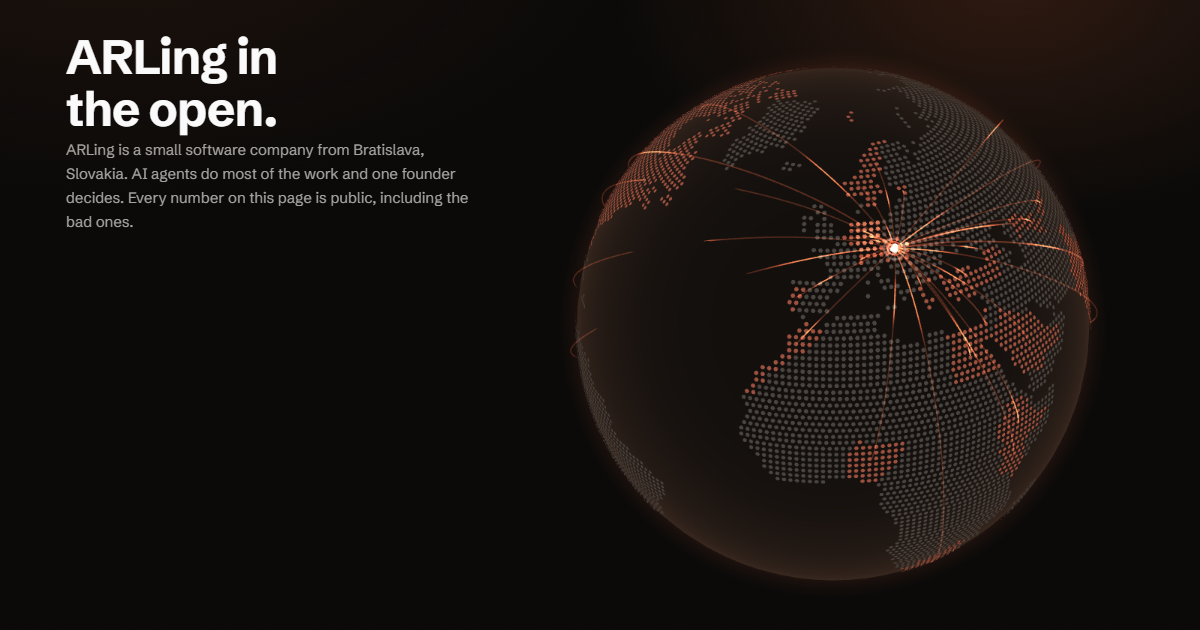
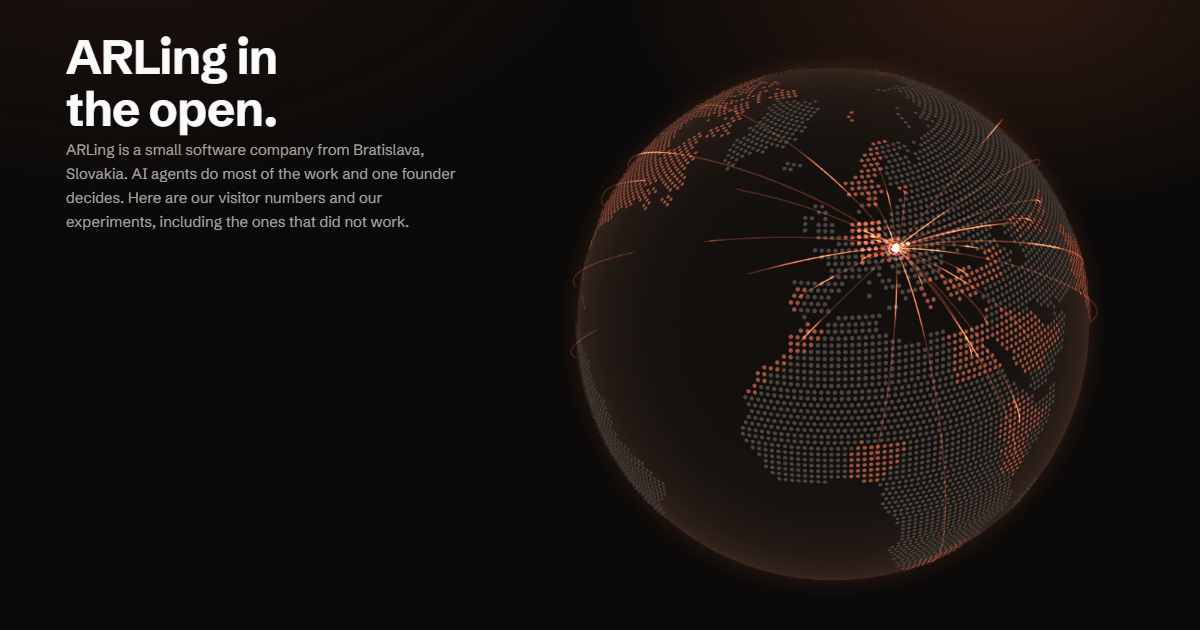
fable: ARLing Live bez penazi firmy (A-182): bez sekcie Money, bez financie.json, pokusy bez sum, og bez cisel; odkaz na uvode len o navstevach

Changed region(s): [[0.6167, 0.2413, 0.925, 0.9048], [0.0617, 0.3016, 0.4008, 0.3619], [0.4933, 0.2111, 0.5858, 0.3317]]

diff --git a/live/index.html b/live/index.html
@@ -5,19 +5,19 @@
 <script type="text/plain" data-odlozene src="/style/vzhlad.js?v=da076a5a"></script>
 <meta charset="utf-8">
 <meta name="viewport" content="width=device-width, initial-scale=1">
-<meta http-equiv="Content-Security-Policy" content="default-src 'self'; script-src 'self' https://api.arling.workers.dev 'sha256-7FSdfmrl+5QSgl6IKPQIurtZ+JQz6W0uhhvFm3YWalc=' 'sha256-+cOkXhI6kmAK6mtiC2OffuDUdcYFfv6ucRETbZ9VK9Y='; connect-src 'self' https://api.arling.workers.dev; img-src 'self' data:; style-src 'self' 'unsafe-inline'; base-uri 'self'; form-action 'none'; object-src 'none'">
+<meta http-equiv="Content-Security-Policy" content="default-src 'self'; script-src 'self' https://api.arling.workers.dev 'sha256-7FSdfmrl+5QSgl6IKPQIurtZ+JQz6W0uhhvFm3YWalc=' 'sha256-9DeU0KVSD0d1mmyzUn85d1rb6ze+3eDNk3VcQLYG9bY='; connect-src 'self' https://api.arling.workers.dev; img-src 'self' data:; style-src 'self' 'unsafe-inline'; base-uri 'self'; form-action 'none'; object-src 'none'">
 <meta name="color-scheme" content="dark">
 <meta name="theme-color" content="#0a0908">
 <link rel="preconnect" href="https://api.arling.workers.dev" crossorigin>
 <link rel="icon" href="../favicon.svg" type="image/svg+xml">
 <link rel="icon" href="../favicon.ico" sizes="48x48">
 <link rel="apple-touch-icon" href="../icon-180.png">
-<title>ARLing Live: visitors, money and experiments in the open</title>
-<meta name="description" content="Where the visitors of ARLing come from, what the company earned and spent, and what it is trying now. Small software company from Bratislava, every number public.">
+<title>ARLing Live: visitors and experiments in the open</title>
+<meta name="description" content="Where the visitors of ARLing come from, which pages they open and what the company is trying now, including what did not work. Small software company from Bratislava.">
 <link rel="canonical" href="https://arling.sk/live/">
 <meta property="og:type" content="website">
-<meta property="og:title" content="ARLing Live: visitors, money and experiments in the open">
-<meta property="og:description" content="Where the visitors of ARLing come from, what the company earned and spent, and what it is trying now.">
+<meta property="og:title" content="ARLing Live: visitors and experiments in the open">
+<meta property="og:description" content="Where the visitors of ARLing come from, which pages they open and what the company is trying now.">
 <meta property="og:url" content="https://arling.sk/live/">
 <meta property="og:image" content="https://arling.sk/live/og.png">
 <meta property="og:image:width" content="1200">
@@ -190,9 +190,8 @@ html:not(.css) main>:nth-child(n+3),html:not(.css) body>footer{visibility:hidden
 .live-veta{font:600 clamp(22px,2.2vw,32px)/1.25 var(--display);color:var(--ink);letter-spacing:-.01em;margin:0 0 8px;max-width:24ch}
 .live-veta b{color:var(--ink);font-weight:600}
 .live-veta2{font:400 clamp(16px,1.2vw,18px)/1.45 var(--ui);color:var(--body);margin:0 0 18px;max-width:44ch}
-.live-pre-vas{color:var(--ink);font-size:15px;margin-top:18px}
 .live-pokusy .lp-o{margin:2px 0 8px;font:500 15px/1.4 var(--ui)}
-.live-pokusy .lp-o a,.live-riadky .lr-p a{color:var(--ink);text-underline-offset:3px}
+.live-pokusy .lp-o a{color:var(--ink);text-underline-offset:3px}
 .live-zoznam .lz-m a::after{content:"";position:absolute;inset:0}
 .live-zoznam .lz-m a:focus-visible{outline:2px solid var(--accent);outline-offset:2px}
 .live-cisla{display:grid;grid-template-columns:repeat(2,minmax(0,1fr));margin:0;border-top:1px solid var(--line)}
@@ -231,19 +230,6 @@ body.noc .live-sekcia .live-tri h3{font:600 15px/1.3 var(--ui);color:var(--muted
 .live-tabulka thead th{color:var(--muted);font-weight:500;font-size:13px}
 .live-tabulka{display:table}.live-tabulka thead{display:table-header-group}.live-tabulka tbody{display:table-row-group}.live-tabulka tr{display:table-row}.live-tabulka th,.live-tabulka td{display:table-cell;width:auto}.live-tabulka td,.live-tabulka thead th:not(:first-child){padding-left:12px}
 .live-uvod-sekcie{font:400 clamp(16px,1.2vw,19px)/1.5 var(--ui);color:var(--body);max-width:62ch;margin:0 0 clamp(20px,2.4vw,36px)}
-.live-peniaze{display:grid;grid-template-columns:minmax(0,1fr);border-top:1px solid var(--line)}
-.live-velke{padding:18px 0;border-bottom:1px solid var(--line)}
-.live-velke p{margin:0;font:500 14px/1.3 var(--ui);color:var(--muted)}
-.live-velke .lv-v{font:600 clamp(36px,4.2vw,64px)/1 var(--display);color:var(--ink);letter-spacing:-.02em;margin:8px 0 8px;white-space:nowrap}
-.live-velke.zle .lv-v{color:var(--accent)}
-.live-velke .lv-p{font-size:14px;color:var(--body);font-weight:400}
-body.noc .live-sekcia h3{font:600 18px/1.3 var(--display);color:var(--ink);letter-spacing:-.01em;margin:clamp(40px,4vw,60px) 0 12px}
-.live-riadky{list-style:none;margin:0;padding:0;border-top:1px solid var(--line)}
-.live-riadky li{display:grid;grid-template-columns:minmax(0,1fr) auto;column-gap:16px;padding:12px 0;border-bottom:1px solid var(--line)}
-.live-riadky .lr-m{font:500 16px/1.4 var(--ui);color:var(--ink);min-width:0}
-.live-riadky .lr-c{font:600 16px/1.4 var(--ui);color:var(--ink);text-align:right;white-space:nowrap}
-.live-riadky .lr-c small{display:block;font:400 12px/1.3 var(--ui);color:var(--muted)}
-.live-riadky .lr-p{grid-column:1/-1;font:400 14px/1.5 var(--ui);color:var(--muted);margin-top:4px;max-width:80ch}
 .live-pozn{font:400 14px/1.55 var(--ui);color:var(--muted);max-width:72ch;margin:12px 0 0}
 .live-pokusy{list-style:none;margin:0;padding:0;border-top:1px solid var(--line)}
 .live-pokusy li{padding:18px 0;border-bottom:1px solid var(--line)}
@@ -258,7 +244,6 @@ body.noc .live-sekcia h3{font:600 18px/1.3 var(--display);color:var(--ink);lette
 @media (min-width:760px){
 .live-cisla{grid-template-columns:repeat(4,minmax(0,1fr))}
 .live-tri{grid-template-columns:repeat(3,minmax(0,1fr))}
-.live-peniaze{grid-template-columns:repeat(3,minmax(0,1fr));column-gap:clamp(20px,3vw,48px)}
 }
 @media (min-width:1000px){
 .live-mriezka{grid-template-columns:minmax(0,5fr) minmax(0,7fr);grid-template-areas:"text globus" "veta globus" "prepinac globus" "prehlad globus";grid-template-rows:auto auto auto 1fr;column-gap:clamp(24px,3vw,56px)}
@@ -268,7 +253,7 @@ body.noc .live-sekcia h3{font:600 18px/1.3 var(--display);color:var(--ink);lette
 }
 @media (prefers-reduced-motion:reduce){.live-platno canvas{transition:none}}
 </style>
-<script type="application/ld+json">{"@context":"https://schema.org","@type":"WebPage","@id":"https://arling.sk/live/#page","name":"ARLing Live: visitors, money and experiments in the open","url":"https://arling.sk/live/","inLanguage":"en","description":"Where the visitors of ARLing come from, what the company earned and spent, and what it is trying now.","publisher":{"@id":"https://arling.sk/#org"}}</script>
+<script type="application/ld+json">{"@context":"https://schema.org","@type":"WebPage","@id":"https://arling.sk/live/#page","name":"ARLing Live: visitors and experiments in the open","url":"https://arling.sk/live/","inLanguage":"en","description":"Where the visitors of ARLing come from, which pages they open and what the company is trying now.","publisher":{"@id":"https://arling.sk/#org"}}</script>
 </head>
 <body class="noc live">
 <a class="skip site-skip" href="#arling-obsah" data-site-label="skip">Skip to content</a>
@@ -292,7 +277,7 @@ body.noc .live-sekcia h3{font:600 18px/1.3 var(--display);color:var(--ink);lette
 <div class="wrap live-mriezka">
 <div class="live-text">
 <h1>ARLing in the open.</h1>
-<p>ARLing is a small software company from Bratislava, Slovakia. AI agents do most of the work and one founder decides. Every number on this page is public, including the bad ones.</p>
+<p>ARLing is a small software company from Bratislava, Slovakia. AI agents do most of the work and one founder decides. Here are our visitor numbers and our experiments, including the ones that did not work.</p>
 </div>
 <div class="live-prepinac" role="group" aria-label="Period" hidden>
 <button type="button" data-okno="d7" aria-pressed="false">7 days</button>
@@ -343,30 +328,6 @@ body.noc .live-sekcia h3{font:600 18px/1.3 var(--display);color:var(--ink);lette
 </div>
 </section>
 
-<section class="live-sekcia" id="money">
-<div class="wrap">
-<h2>Money</h2>
-<p class="live-uvod-sekcie">We are not profitable yet. Revenue is what customers paid us; spent is what the company paid or already owes, such as VAT that is due later (marked below). This is a cash view from bank statements, invoices and order records, not the company's accounts, so the result is not the accounting profit or loss. It covers the time since the company took the name ARLing on 18&nbsp;March 2026; the years before are listed below.</p>
-<div id="peniaze"><!--live:peniaze-->
-<div class="live-peniaze">
-<div class="live-velke"><p>Revenue, what customers paid</p><p class="lv-v">€25.32</p><p class="lv-p">All time, without tax.</p></div>
-<div class="live-velke"><p>Spent</p><p class="lv-v">€1,701.43</p><p class="lv-p">AI tools €1,092.50 of it. €148.15 is an estimate.</p></div>
-<div class="live-velke zle"><p>Result</p><p class="lv-v">−€1,676.11</p><p class="lv-p">A loss, at least this much. What is not counted yet is listed below.</p></div>
-</div>
-<p class="live-pozn live-pre-vas">What this means for you: our free tools stay free, a company rule since 18 October 2026. So far the founder has covered the loss.</p>
-<h3>Revenue by channel</h3>
-<ul class="live-riadky"><li><span class="lr-m">Etsy</span><span class="lr-c">€25.32</span><span class="lr-p">Paid orders for digital downloads, without the tax Etsy collects, before Etsy fees. 5 orders. Source: Etsy order records, 19 Oct 2026. <a href="https://www.etsy.com/shop/ARLingStudio" data-umami-event="live_to_product" data-umami-event-produkt="Etsy shop">Our Etsy shop</a></span></li><li><span class="lr-m">Web checkout (Stripe)</span><span class="lr-c">€0.00</span><span class="lr-p">No paid checkout yet. Source: Stripe payment records, 19 Oct 2026. <a href="/shop/" data-umami-event="live_to_product" data-umami-event-produkt="Shop">Shop</a></span></li><li><span class="lr-m">Shopify apps</span><span class="lr-c">€0.00</span><span class="lr-p">Two apps are in Shopify review. No installs yet. Source: Shopify Partner dashboard, 19 Oct 2026. <a href="/feed-doctor/agent-ready/" data-umami-event="live_to_product" data-umami-event-produkt="Free store check">Check your store free</a></span></li><li><span class="lr-m">Ads in our Android games (AdMob)</span><span class="lr-c">€0.04</span><span class="lr-p">Estimate, not paid. AdMob pays out from €70. Not counted in revenue. Source: AdMob report, 18 Oct 2026. <a href="/play/" data-umami-event="live_to_product" data-umami-event-produkt="Games on Google Play">Our games</a></span></li></ul>
-<p class="live-pozn">Google Play in-app purchases are not measured yet.</p>
-<h3>Where the money went</h3>
-<ul class="live-riadky"><li><span class="lr-m">Bank statements, 18 Mar 2026 to 30 Sep 2026</span><span class="lr-c">€951.88</span><span class="lr-p">AI tools €732.50 of it. Reconciled to the cent. Source: Bank statements of ARLing s. r. o.</span></li><li><span class="lr-m">Invoices after the last statement, 30 Sep 2026 to 18 Oct 2026</span><span class="lr-c">€340.01</span><span class="lr-p">AI tools €180.00 of it. €5.45 of it is an estimate. Source: Supplier invoices and receipts until the next bank statement.</span></li><li><span class="lr-m">Claude subscription the company pays since 18 Oct 2026, with the VAT we owe on it</span><span class="lr-c">€221.40</span><span class="lr-p">AI tools €180.00 of it. Source: Invoice of 18 Oct 2026; the VAT is due with the October tax return.</span></li><li><span class="lr-m">Shopify App Store registration fee ($19, 16 Oct 2026), with the VAT we owe on it</span><span class="lr-c">€20.70</span><span class="lr-p">€20.70 of it is an estimate. Source: Shopify receipt; the euro amount comes with the October bank statement.</span></li><li><span class="lr-m">Etsy fees and ads in October, not on an invoice yet, as of 19 Oct 2026</span><span class="lr-c">€45.44</span><span class="lr-p">Source: Etsy&#39;s own payment records.</span></li><li><span class="lr-m">VAT we owe on foreign services for September</span><span class="lr-c">€122.00</span><span class="lr-p">Estimate. Source: Our own estimate; the exact amount comes with the tax return.</span></li></ul>
-<p class="live-pozn">Not counted yet: Other card payments in October, until the October bank statement arrives.</p>
-<h3>Before the name ARLing</h3>
-<ul class="live-riadky"><li><span class="lr-m">The same company, then called larbly, 8 Jan 2025 to 5 Mar 2026</span><span class="lr-c">€911.54</span><span class="lr-p">Mostly tax, accounting, registration and ads. November 2025 has no bank statement; for 2024 there are no bank statements, only the tax return. Source: bank statements.</span></li></ul>
-<p class="live-pozn">Result including these years: −€2,587.65.</p>
-<!--/live:peniaze--></div>
-</div>
-</section>
-
 <section class="live-sekcia" id="experiments">
 <div class="wrap">
 <h2>What we are trying now</h2>
@@ -378,7 +339,7 @@ body.noc .live-sekcia h3{font:600 18px/1.3 var(--display);color:var(--ink);lette
 <p class="lp-d">Since 19 Oct 2026. Decision on 2 Nov 2026.</p>
 </li><li>
 <p class="lp-t"><span class="lp-s lp-s-waiting">Waiting</span> Etsy ads, second try, only on listings that already sold</p>
-<p>Four listings, $1 a day. If ads bring back less than 1.5 times what they cost, or no order, they go off. We decide a week after the start.</p><p class="lp-r">The first try did not work: in 13 days ads cost €14.11 and brought back €0.50 to €0.61 for every euro spent. Break-even is about 1.25. It stays on until we switch to the four listings.</p>
+<p>Ads on four listings that already sold. If the ads do not pay off clearly, or no order comes from them, they go off. We decide a week after the start.</p><p class="lp-r">The first try did not work: in 13 days the ads did not pay off. It stays on until we switch to the four listings.</p>
 <p class="lp-d">Not started yet.</p>
 </li><li>
 <p class="lp-t"><span class="lp-s lp-s-running">Running</span> Videos with your names, now made in your own browser</p>
@@ -397,7 +358,7 @@ body.noc .live-sekcia h3{font:600 18px/1.3 var(--display);color:var(--ink);lette
 <p>Six animated Christmas scenes for a projector in the window or for a TV, rendered from our own code and sold as an instant download on Etsy. We promote them with Pinterest pins and one post per network.</p><p class="lp-r">On sale on Etsy since 19 Oct for €9.90. No orders yet. We check the views on 22 and 26 October.</p><p class="lp-o"><a href="https://www.etsy.com/listing/4598733107" data-umami-event="live_to_product" data-umami-event-produkt="Christmas window projections">The projections on Etsy</a></p>
 <p class="lp-d">Since 19 Oct 2026. Decision on 16 Nov 2026.</p>
 </li></ol>
-<p class="live-pozn">Written by hand, updated when something changes. Last change 19 Oct 2026.</p>
+<p class="live-pozn">Written by hand, updated when something changes. Last change 20 Oct 2026.</p>
 <!--/live:experimenty--></div>
 </div>
 </section>
@@ -409,7 +370,6 @@ body.noc .live-sekcia h3{font:600 18px/1.3 var(--display);color:var(--ink);lette
 <p>We leave out the bots we can recognise: all visits from Singapore and China (almost all were bots), data centres such as Ashburn or Des Moines, screen sizes no person uses (for example 800x600 or 2000x2000), Linux computers outside Slovakia, and visits whose location has no city. We also leave out bursts that look automated: three or more visits from the same country in the same minute, with the same browser, system and screen, each opening one page. We also leave out our own computers we can recognise. This removes some real people too, mostly on mobile networks, and some of our own phone visits may still be counted.</p>
 <p>From 27 to 30 September 2026 our analytics recorded the location of our own proxy server instead of the visitor (mostly Vienna and Prague). Without the location we could not tell people from bots, so visits from those days are left out of all numbers.</p>
 <p>To protect visitors, numbers below 5 are shown as "under 5". Places appear only as dots rounded to about 50&nbsp;km, and only where we counted at least 5 different devices (browser, system, screen and language), so one person who opens several of our sites cannot make a dot alone. Today is never shown; the newest day is yesterday. Etsy orders are shown as a count, without countries or amounts. The numbers are refreshed automatically every morning; the list of experiments is written by hand.</p>
-<p>Money: revenue from Etsy's order records and from Stripe; costs from the company's bank statements, supplier invoices and Etsy's own payment records, plus our estimates, which are marked. The AdMob figure is an estimate and is not counted until Google pays it.</p>
 <p>Map data: Natural Earth, public domain. The globe is drawn with three.js (MIT licence), served from this site. Apart from our own analytics, the page loads nothing from other servers.</p>
 </div>
 </section>

diff --git a/live/vykres.js b/live/vykres.js
@@ -1,7 +1,8 @@
-// ARLing Live: one place that turns data.json, financie.json and experimenty.json into HTML.
+// ARLing Live: one place that turns data.json and experimenty.json into HTML.
 // Used twice: by the browser (live.js, when the 7/30 day switch changes) and by ops/riadenie/globus/stranka.mjs,
 // which writes the same HTML into index.html, so the numbers are readable without JavaScript and by search engines.
 // Every value from the JSON files goes through esc(); numbers are formatted here, never with the visitor's locale.
+// Company finances are not part of this page and never go through this file (A-182, 20 October 2026).
 
 export const esc = (s) => String(s ?? '').replace(/[&<>"']/g, (c) => ({ '&': '&amp;', '<': '&lt;', '>': '&gt;', '"': '&quot;', "'": '&#39;' })[c]);
 
@@ -15,13 +16,6 @@ export function pocet(n) {
 }
 /** Value used for sorting and bar length: "<5" counts as 2.5 (somewhere between 1 and 4). */
 export const hodnota = (n) => (typeof n === 'number' ? n : typeof n === 'string' && /^<\d+$/.test(n) ? Number(n.slice(1)) / 2 : 0);
-
-/** 1291.89 -> "€1,291.89", -1266.57 -> "−€1,266.57" (minus sign U+2212, not a dash). */
-export function eur(x) {
-  if (typeof x !== 'number' || !Number.isFinite(x)) return 'not measured';
-  const [cele, centy] = Math.abs(x).toFixed(2).split('.');
-  return (x < 0 ? '−' : '') + '€' + tisice(cele) + '.' + centy;
-}
 
 const MESIACE = ['Jan', 'Feb', 'Mar', 'Apr', 'May', 'Jun', 'Jul', 'Aug', 'Sep', 'Oct', 'Nov', 'Dec'];
 /** "2026-09-30" -> "30 Sep 2026" with non-breaking spaces, so a date never breaks over two lines. */
@@ -94,47 +88,6 @@ export function htmlTabulka(data) {
 <thead><tr><th scope="col">Country</th><th scope="col">Last 7 days</th><th scope="col">Last 30 days</th></tr></thead>
 <tbody>${riadky.map((k) => `<tr><th scope="row">${esc(k.nazov)}</th><td>${esc(pocet(k.d7))}</td><td>${esc(pocet(k.d30))}</td></tr>`).join('')}</tbody>
 </table>`;
-}
-
-const riadok = (meno, suma, text) => `<li><span class="lr-m">${meno}</span><span class="lr-c">${suma}</span><span class="lr-p">${text}</span></li>`;
-const obdobieCasti = (c) => (c.od && c.do ? `, ${esc(den(c.od))} to ${esc(den(c.do))}` : c.ku ? `, as of ${esc(den(c.ku))}` : c.do ? `, until ${esc(den(c.do))}` : '');
-/** Sentence end without a double full stop ("ARLing s. r. o." already ends with one). */
-const veta = (t) => (/[.!?]$/.test(String(t)) ? String(t) : String(t) + '.');
-
-export function htmlPeniaze(f) {
-  const kanaly = f.trzby.kanaly.map((k) => {
-    const obj = typeof k.objednavky === 'number' && k.objednavky > 0 ? ` ${k.objednavky === 1 ? '1 order' : pocet(k.objednavky) + ' orders'}.` : '';
-    const kedy = k.datum ? ` Source: ${esc(k.zdroj)}, ${esc(den(k.datum))}.` : ` Source: ${esc(k.zdroj)}.`;
-    const dalej = k.odkaz ? ` ${odkazNaProdukt(k.odkaz.url, k.odkaz.text, k.odkaz.produkt)}` : '';
-    return riadok(esc(k.nazov), eur(k.suma), `${esc(k.poznamka)}${obj}${kedy}${dalej}`);
-  }).join('');
-  const casti = f.vydavky.casti.map((c) => {
-    const text = [
-      c.ai ? `AI tools ${eur(c.ai)} of it.` : '',
-      c.odhad ? 'Estimate.' : c.odhadom ? `${eur(c.odhadom)} of it is an estimate.` : '',
-      c.poznamka ? esc(c.poznamka) : '',
-      `Source: ${esc(veta(c.zdroj))}`,
-    ].filter(Boolean).join(' ');
-    return riadok(`${esc(c.nazov)}${obdobieCasti(c)}`, eur(c.suma), text);
-  }).join('');
-  const p = f.predtym;
-  const predtym = p ? `<h3>Before the name ARLing</h3>
-<ul class="live-riadky">${riadok(`The same company, then called ${esc(p.nazov)}, ${esc(den(p.od))} to ${esc(den(p.do))}`, eur(p.suma),
-    `Mostly tax, accounting, registration and ads. ${esc(p.poznamka)} Source: bank statements.`)}</ul>
-<p class="live-pozn">Result including these years: ${eur(f.vysledok.vratanePredtym)}.</p>` : '';
-  return `<div class="live-peniaze">
-<div class="live-velke"><p>Revenue, what customers paid</p><p class="lv-v">${eur(f.trzby.spolu)}</p><p class="lv-p">All time, without tax.</p></div>
-<div class="live-velke"><p>Spent</p><p class="lv-v">${eur(f.vydavky.spolu)}</p><p class="lv-p">AI tools ${eur(f.vydavky.ai)} of it.${f.vydavky.odhadom ? ` ${eur(f.vydavky.odhadom)} is an estimate.` : ''}</p></div>
-<div class="live-velke zle"><p>Result</p><p class="lv-v">${eur(f.vysledok.suma)}</p><p class="lv-p">A loss${f.vysledok.najmenej ? ', at least this much' : ''}. What is not counted yet is listed below.</p></div>
-</div>
-<p class="live-pozn live-pre-vas">What this means for you: our free tools stay free, a company rule since 18${NBSP}October 2026. So far the founder has covered the loss.</p>
-<h3>Revenue by channel</h3>
-<ul class="live-riadky">${kanaly}</ul>
-<p class="live-pozn">${f.trzby.nemerane.map(esc).join(' ')}</p>
-<h3>Where the money went</h3>
-<ul class="live-riadky">${casti}</ul>
-${(f.vydavky.nezapocitane || []).length ? `<p class="live-pozn">Not counted yet: ${f.vydavky.nezapocitane.map(esc).join(' ')}</p>` : ''}
-${predtym}`;
 }
 
 const STAVY = { running: 'Running', waiting: 'Waiting', reworking: 'Being rebuilt', stopped: 'Stopped', failed: 'Did not work', worked: 'Worked', planned: 'Next' };

diff --git a/de/index.html b/de/index.html
@@ -87,7 +87,7 @@
       </div>
       <p class="pozn">Öffentliche Stichprobe mit bis zu 20 Produkten, ohne Installation und ohne <span class="nw">E-Mail</span>.</p>
       <p class="stav"><svg viewBox="0 0 24 24" fill="none" stroke="currentColor" stroke-width="1.8" stroke-linecap="round" stroke-linejoin="round" aria-hidden="true"><circle cx="12" cy="12" r="9"/><path d="M12 7v5l3 2"/></svg><span>Die App Agentic Product Check, die Ihren gesamten Katalog liest, wartet auf die Freigabe im Shopify App Store (eingereicht am 16. Oktober 2026).</span></p>
-      <p class="live-mob"><a href="/live/" hreflang="en" data-umami-event="hub_live" data-umami-event-target="/live/" data-umami-event-miesto="hrdina"><span class="live-bod" aria-hidden="true"></span><span>ARLing Live: Besuche, Umsatz und Ausgaben</span><span class="jaz">EN</span></a></p>
+      <p class="live-mob"><a href="/live/" hreflang="en" data-umami-event="hub_live" data-umami-event-target="/live/" data-umami-event-miesto="hrdina"><span class="live-bod" aria-hidden="true"></span><span>ARLing Live: woher die Besuche kommen</span><span class="jaz">EN</span></a></p>
     </div>
 
     <div class="scena" id="scena">
@@ -122,7 +122,7 @@
       </div>
       <p class="vh">Beispiel: Im Shopify Catalog eines Beispielshops sind 11 von 12 Produkten. Der Kupferkessel fehlt, obwohl er im Shop in Ordnung aussieht: Das Metafeld seo.hidden ist auf 1 gesetzt, dadurch ist das Produkt vor Suchmaschinen verborgen. Korrektur: das Metafeld entfernen oder auf 0 setzen. Zwei weitere Produkte haben Hinweise: fehlender Produkttyp und kurze Beschreibung.</p>
     </div>
-    <a class="glob-popis" href="/live/" hreflang="en" data-umami-event="hub_live" data-umami-event-target="/live/" data-umami-event-miesto="glob"><span class="glob-chip"><span class="live-bod" aria-hidden="true"></span><span>Besuche auf arling.sk in 30&nbsp;Tagen</span><span class="glob-odkaz">Zahlen und Finanzen ansehen</span><span class="jaz">EN</span></span></a>
+    <a class="glob-popis" href="/live/" hreflang="en" data-umami-event="hub_live" data-umami-event-target="/live/" data-umami-event-miesto="glob"><span class="glob-chip"><span class="live-bod" aria-hidden="true"></span><span>Besuche auf arling.sk in 30&nbsp;Tagen</span><span class="glob-odkaz">Ansehen, woher sie kommen</span><span class="jaz">EN</span></span></a>
     <div class="glob" aria-hidden="true" data-glob="/obrazky/v7/glob" data-v="e52efbf3"></div>
   </div>
 </section>

diff --git a/index.html b/index.html
@@ -87,7 +87,7 @@
       </div>
       <p class="pozn">Verejná vzorka do 20 produktov, bez inštalácie a&nbsp;bez <span class="nw">e-mailu</span>.</p>
       <p class="stav"><svg viewBox="0 0 24 24" fill="none" stroke="currentColor" stroke-width="1.8" stroke-linecap="round" stroke-linejoin="round" aria-hidden="true"><circle cx="12" cy="12" r="9"/><path d="M12 7v5l3 2"/></svg><span>Appka Agentic Product Check, ktorá číta celý katalóg, čaká na schválenie v&nbsp;Shopify App Store (podaná 16.&nbsp;10.&nbsp;2026).</span></p>
-      <p class="live-mob"><a href="/live/" hreflang="en" data-umami-event="hub_live" data-umami-event-target="/live/" data-umami-event-miesto="hrdina"><span class="live-bod" aria-hidden="true"></span><span>ARLing Live: návštevy, tržby a&nbsp;výdavky firmy</span><span class="jaz">EN</span></a></p>
+      <p class="live-mob"><a href="/live/" hreflang="en" data-umami-event="hub_live" data-umami-event-target="/live/" data-umami-event-miesto="hrdina"><span class="live-bod" aria-hidden="true"></span><span>ARLing Live: odkiaľ chodia návštevy</span><span class="jaz">EN</span></a></p>
     </div>
 
     <div class="scena" id="scena">
@@ -122,7 +122,7 @@
       </div>
       <p class="vh">Ukážka: katalóg Shopify ukážkového obchodu má 11 z 12 produktov. Medená kanvica v ňom chýba, hoci v obchode vyzerá v poriadku: metapole seo.hidden je nastavené na 1, takže produkt je skrytý pred vyhľadávačmi. Oprava: odstrániť metapole alebo ho nastaviť na 0. Ďalšie dva produkty majú upozornenie: chýba typ produktu a krátky popis.</p>
     </div>
-    <a class="glob-popis" href="/live/" hreflang="en" data-umami-event="hub_live" data-umami-event-target="/live/" data-umami-event-miesto="glob"><span class="glob-chip"><span class="live-bod" aria-hidden="true"></span><span>Návštevy arling.sk za 30&nbsp;dní</span><span class="glob-odkaz">Pozrieť čísla a&nbsp;financie</span><span class="jaz">EN</span></span></a>
+    <a class="glob-popis" href="/live/" hreflang="en" data-umami-event="hub_live" data-umami-event-target="/live/" data-umami-event-miesto="glob"><span class="glob-chip"><span class="live-bod" aria-hidden="true"></span><span>Návštevy arling.sk za 30&nbsp;dní</span><span class="glob-odkaz">Pozrieť, odkiaľ chodia</span><span class="jaz">EN</span></span></a>
     <div class="glob" aria-hidden="true" data-glob="/obrazky/v7/glob" data-v="e52efbf3"></div>
   </div>
 </section>

diff --git a/en/index.html b/en/index.html
@@ -87,7 +87,7 @@
       </div>
       <p class="pozn">Public sample of up to 20 products, nothing to install and no <span class="nw">email</span>.</p>
       <p class="stav"><svg viewBox="0 0 24 24" fill="none" stroke="currentColor" stroke-width="1.8" stroke-linecap="round" stroke-linejoin="round" aria-hidden="true"><circle cx="12" cy="12" r="9"/><path d="M12 7v5l3 2"/></svg><span>The Agentic Product Check app, which reads your whole catalog, is awaiting approval in the Shopify App Store (submitted 16 Oct 2026).</span></p>
-      <p class="live-mob"><a href="/live/" data-umami-event="hub_live" data-umami-event-target="/live/" data-umami-event-miesto="hrdina"><span class="live-bod" aria-hidden="true"></span><span>ARLing Live: visits, revenue and expenses</span></a></p>
+      <p class="live-mob"><a href="/live/" data-umami-event="hub_live" data-umami-event-target="/live/" data-umami-event-miesto="hrdina"><span class="live-bod" aria-hidden="true"></span><span>ARLing Live: where visitors come from</span></a></p>
     </div>
 
     <div class="scena" id="scena">
@@ -122,7 +122,7 @@
       </div>
       <p class="vh">Example: the Shopify Catalog of a sample store has 11 of 12 products. The Copper Kettle is missing although it looks fine in the store: the seo.hidden metafield is set to 1, which hides the product from search engines. Fix: remove the metafield or set it to 0. Two more products have warnings: a missing product type and a short description.</p>
     </div>
-    <a class="glob-popis" href="/live/" data-umami-event="hub_live" data-umami-event-target="/live/" data-umami-event-miesto="glob"><span class="glob-chip"><span class="live-bod" aria-hidden="true"></span><span>Visits to arling.sk, last 30&nbsp;days</span><span class="glob-odkaz">See the numbers and finances</span></span></a>
+    <a class="glob-popis" href="/live/" data-umami-event="hub_live" data-umami-event-target="/live/" data-umami-event-miesto="glob"><span class="glob-chip"><span class="live-bod" aria-hidden="true"></span><span>Visits to arling.sk, last 30&nbsp;days</span><span class="glob-odkaz">See where they come from</span></span></a>
     <div class="glob" aria-hidden="true" data-glob="/obrazky/v7/glob" data-v="e52efbf3"></div>
   </div>
 </section>
